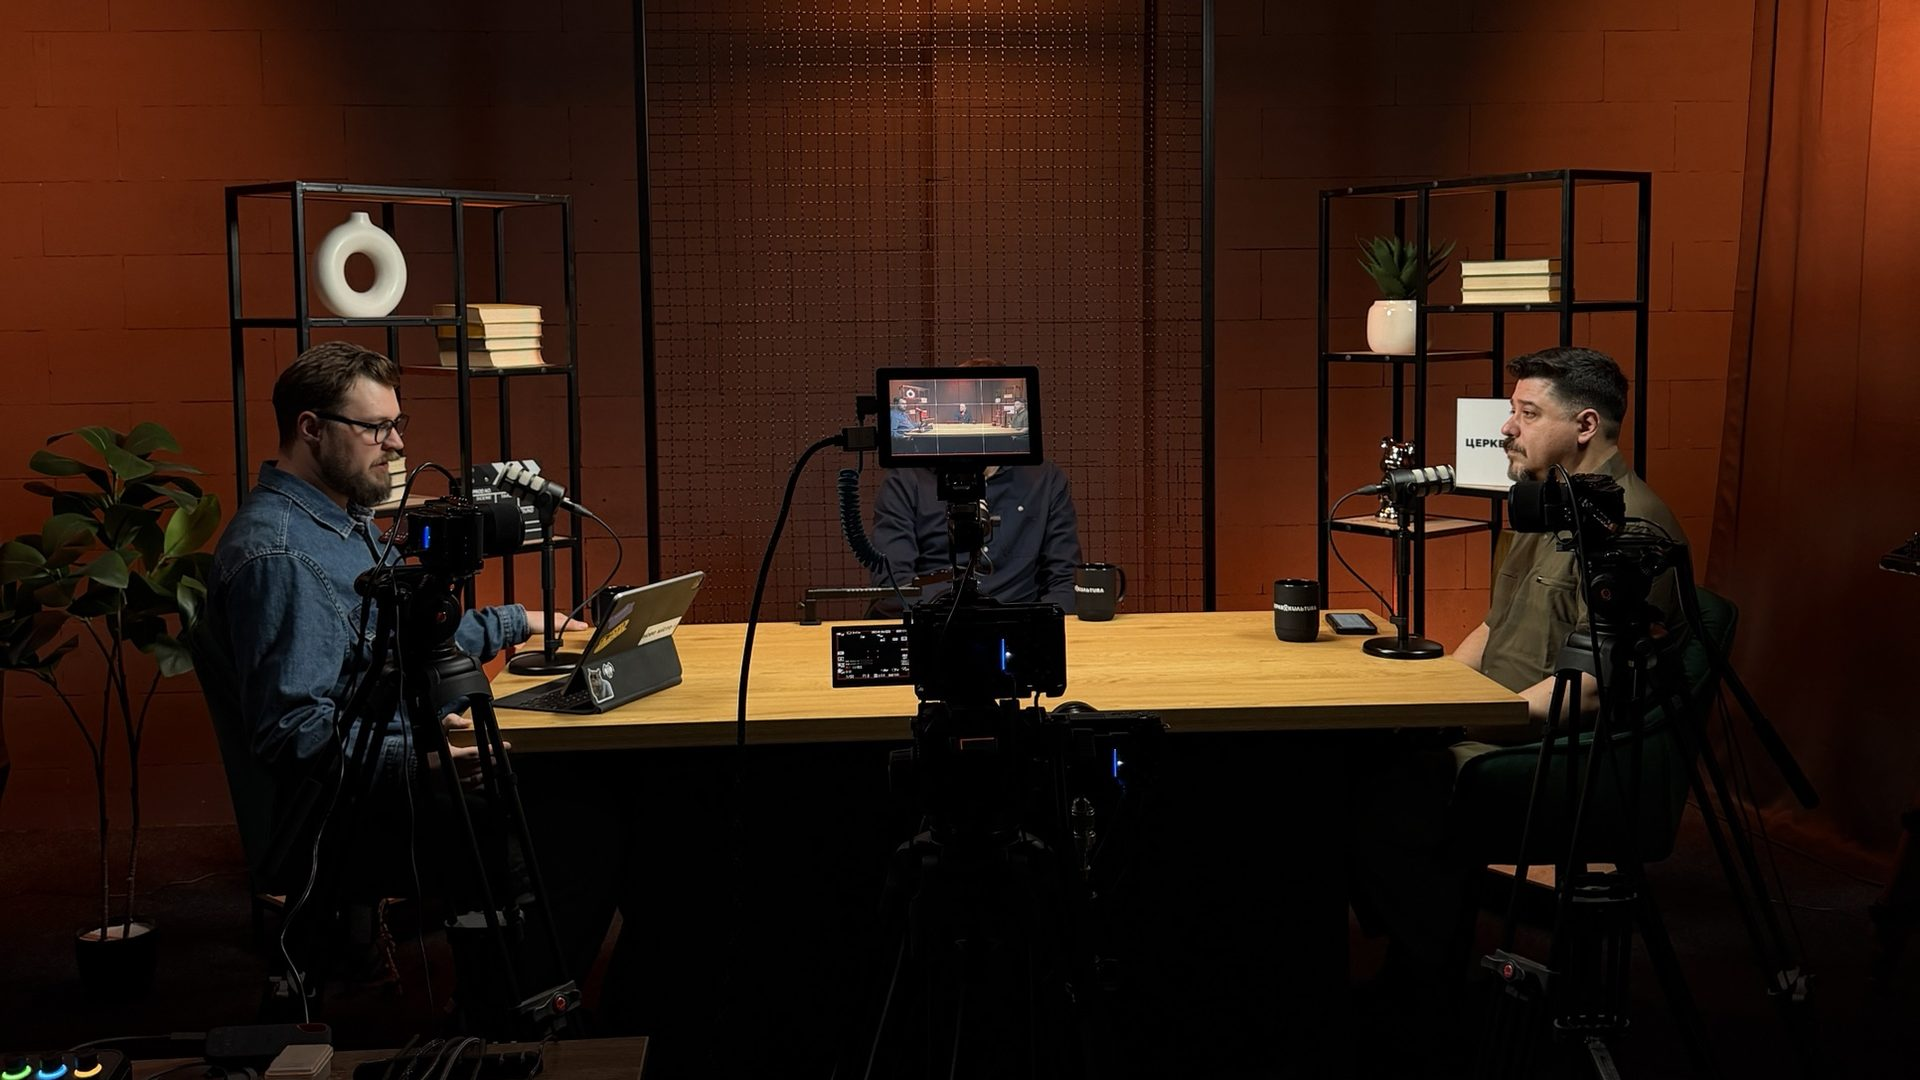
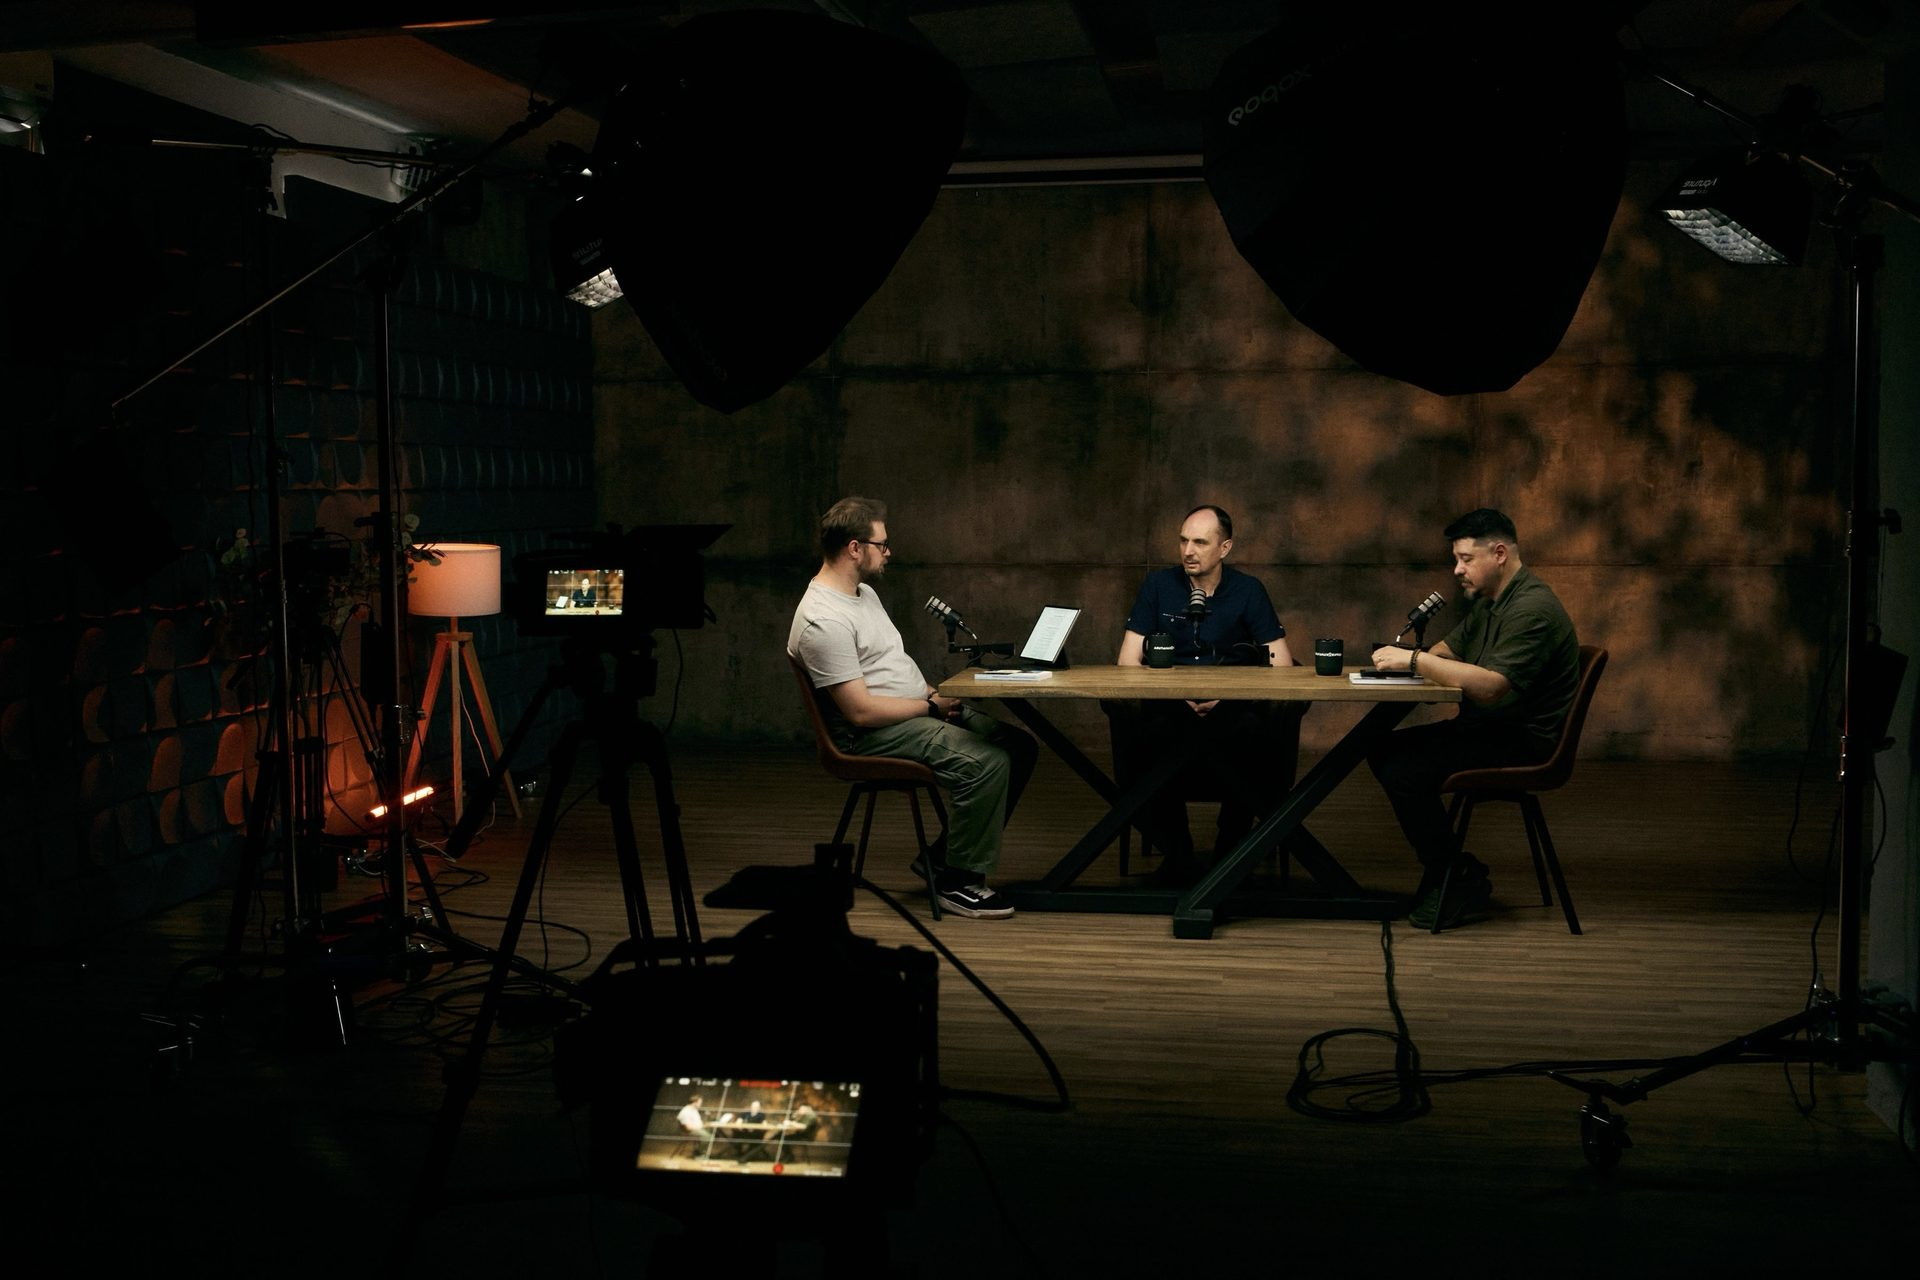
ЦерквоКультура: нова заставка — троє ведучих за столом у студії
Claude-Session: https://claude.ai/code/session_01Nrz3NFNJY1wqVTFvhhcDxV

diff --git a/tserkvokultura.html b/tserkvokultura.html
@@ -80,7 +80,7 @@
 <main class="bg-[#141414] text-white">
 <!-- ОБКЛАДИНКА -->
 <section class="relative overflow-hidden">
-<img src="assets/img/resursy/tserkvokultura-hero.jpg" alt="Запис подкасту «Церквокультура»: ведучі й гість за столом у студії" class="absolute inset-0 w-full h-full object-cover object-[22%_center] md:object-center opacity-60">
+<img src="assets/img/resursy/tserkvokultura-hero.jpg" alt="Запис подкасту «Церквокультура»: ведучі й гість за столом у студії" class="absolute inset-0 w-full h-full object-cover object-[62%_center] md:object-center opacity-85">
 <div class="absolute inset-0 bg-gradient-to-t from-[#141414] via-[#141414]/40 to-transparent"></div>
 <div class="relative max-w-container-max mx-auto px-margin-mobile md:px-margin-desktop pt-40 md:pt-64 pb-14 md:pb-20">
 <a href="resursy.html" class="inline-flex items-center gap-1 text-sm font-semibold text-white/70 hover:text-white"><span class="material-symbols-outlined text-lg">arrow_back</span>Ресурси</a>
